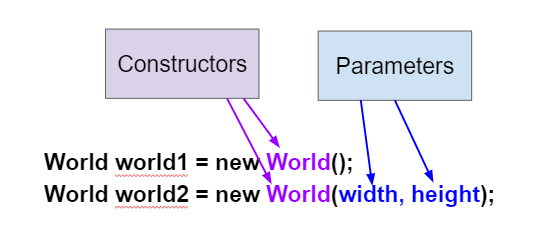
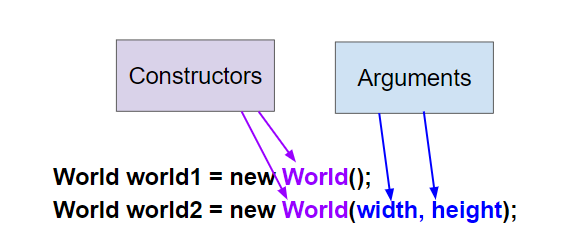
1-13-constructors finished
New EKs just use arguments, not actual parameters and have slight phrasing differences.

Changed region(s): [[0.0623, 0.1207, 0.9341, 0.9655]]

diff --git a/_sources/Unit1-Using-Objects-and-Methods/topic-1-13-constructors.rst b/_sources/Unit1-Using-Objects-and-Methods/topic-1-13-constructors.rst
@@ -1,29 +1,18 @@
 .. include:: ../common.rst
 
-.. qnum::
-   :prefix: 2-2-
-   :start: 1
-
-.. index::
-   pair: class; constructor
-
-.. |repl link| raw:: html
-
-   <a href="https://replit.com/@BerylHoffman/Java-Swing-Turtle#Main.java" target="_blank" style="text-decoration:underline">replit.com link</a>
-
-.. |github| raw:: html
-
-   <a href="https://github.com/bhoffman0/APCSA-2019/tree/master/_sources/Unit2-Using-Objects/TurtleJavaSwingCode.zip" target="_blank" style="text-decoration:underline">here</a>
-
 |Time45|
 
 Creating and Initializing Objects: Constructors
 ================================================
 
-A Java class defines what objects of the class know (attributes) and what they can do (behaviors).  Each class has **constructors** like ``World()`` and ``Turtle(habitat)`` which are used to initialize the attributes in a newly created object.
+.. index::
+   pair: class; constructor
+   single: constructors
+   single: new
+   
+A Java class defines what objects of the class know (attributes) and what they can do (behaviors).  Each class has **constructors** which are used to initialize the attributes in a newly created object. **Constructors** have the same name as the class.
 
-A new object is created with the ``new`` keyword followed by the class name (``new Class()``).  When this code executes, it creates a new object of the specified class and calls a constructor, which has the same name as the class.  For example, ``new World()`` creates and initializes a new object of the ``World`` class, and ``new Turtle(habitat)`` creates and initializes a new ``Turtle`` object in the World habitat.
-
+A new object is created with the ``new`` keyword followed by the class name which is a call to the constructor (``new ClassName()``).  For example, ``new World()`` creates and initializes a new object of the ``World`` class, and ``new Turtle(habitat)`` creates and initializes a new ``Turtle`` object in the World habitat. The new object is saved in a variable of a **reference type** which holds an object reference or null if there is no object.
 
 .. code-block:: java
 
@@ -32,25 +21,43 @@ A new object is created with the ``new`` keyword followed by the class name (``n
     World habitat = new World();    // create a new World object
     Turtle t = new Turtle(habitat); // create a new Turtle object
 
-Overloading Constructors
----------------------------
+The World Class Constructors
+----------------------------------------------------------
 
-There can be more than one constructor defined in a class. This is called **overloading** the constructor. There is usually a constructor that has no parameters (nothing inside the parentheses following the name of the constructor) like the ``World()`` constructor above.  This is also called the **no-argument constructor**.  The **no-argument** constructor usually sets the attributes of the object to default values.
-
-There can also be other constructors that take parameters like the ``Turtle(habitat)`` constructor call above. A **parameter** (also called **actual parameter** or **argument**) is a value that is passed into a constructor.  It can be used to initialize the attribute of an object.
-
-The ``World`` class actually has 2 constructors.  One doesn't take any parameters and one takes the world's width and height.
-
+There can be more than one constructor defined in a class. This is called **overloading** the constructor. The ``World`` class has the 2 constructors seen below. One doesn't take any arguments and creates a default sized world and one takes the world’s width and height arguments to create a world of a specific size. An **argument** (also called actual parameter) is a value that is passed into a constructor. Arguments are used to initialize the attributes of an object, in this case, the size of the world.
 
 .. figure:: Figures/worldConstructors.png
     :width: 350px
     :align: center
-    :alt: Two overloaded World constructors
+    :alt: Two World constructors
     :figclass: align-center
 
-    Figure 1: Two overloaded World constructors
+    Figure 1: Two World constructors
+
+The **no-argument constructor** ``World()``, with no arguments inside the parentheses following the name of the constructor, creates a graphical window with a default size of 640x480 pixels. No-argument constructors usually set the attributes of the object to default values. The second ``World(int width, int height)`` constructor takes two integer arguments, and initializes the ``World`` object's width and height to them, for example ``new World(300,400)`` creates a 300x400 pixel world. 
+
+.. code-block:: java
+
+    World world1 = new World(); // creates a default size 640x480 world
+    World world2 = new World(300,400); // creates a 300x400 world
 
 |Exercise| **Check your understanding**
+
+.. mchoice:: const_def_1
+   :practice: T
+   :answer_a: World w = null;
+   :answer_b: World w = new World;
+   :answer_c: World w = new World();
+   :answer_d: World w = World();
+   :answer_e: World w = new World(300,500);
+   :correct: c
+   :feedback_a: This declares a variable w that refers to a World object, but it doesn't create a World object or initialize it.
+   :feedback_b: You must include parentheses () to call a constructor.
+   :feedback_c: Correct, use the new keyword followed by the classname and parentheses to create a new object and call the constructor.
+   :feedback_d: You must use the new keyword to create a new object.
+   :feedback_e: Correct, this constructor call creates a new World object with the size 300x500 pixels.
+
+   Which of these is valid syntax for creating and initializing a World object?
 
 .. mchoice:: overload_const_1
    :practice: T
@@ -65,50 +72,6 @@ The ``World`` class actually has 2 constructors.  One doesn't take any parameter
    :feedback_d: Overloading means that there is more than one constructor.  The parameter lists must differ in either number, order, or type of parameters.
 
    Which of these is overloading?
-
-.. mchoice:: const_def_1
-   :practice: T
-   :answer_a: World w = null;
-   :answer_b: World w = new World;
-   :answer_c: World w = new World();
-   :answer_d: World w = World();
-   :correct: c
-   :feedback_a: This declares a variable w that refers to a World object, but it doesn't create a World object or initialize it.
-   :feedback_b: You must include parentheses () to call a constructor.
-   :feedback_c: Use the new keyword followed by the classname and parentheses to create a new object and call the constructor.
-   :feedback_d: You must use the new keyword to create a new object.
-
-   Which of these is valid syntax for creating and initializing a World object?
-
-The World Class Constructors
-----------------------------------------------------------
-
-The constructor that doesn't take any parameters, ``World()``, creates a graphical window with 640x480 pixels. The ``World(int width, int height)`` constructor takes two integer parameters, and initializes the ``World`` object's width and height to them, for example ``new World(300,400)`` creates a 300x400 pixel world.
-
-.. code-block:: java
-
-    World world1 = new World(); // creates a 640x480 world
-    World world2 = new World(300,400); // creates a 300x400 world
-
-.. note::
-
-   The turtle world does not use the Cartesian coordinate system with (0,0) in
-   in the middle the screen. Instead, (0,0) is at the top left corner of the
-   screen and x increases to the right and y increases towards the bottom of the
-   screen.
-
-   Most computer graphics systems use this coordinate system which is a carry
-   over from before computers could display graphics. When computer displays
-   were text based and mostly made by people using left-to-right, top-to-bottom
-   languages like English, it made sense to have the first character appear at
-   the top left and then count columns to the right and lines down.
-
-.. figure:: Figures/coords.png
-    :width: 200px
-    :align: center
-    :figclass: align-center
-
-    Figure 2: The coordinate (0,0) is at the top left of the Turtle world.
 
 The Turtle Class Constructors
 ----------------------------------------------------------
@@ -136,7 +99,7 @@ There is another ``Turtle`` constructor that places the turtle at a certain (x,y
    :correct: d
    :feedback_a: You must use the new keyword to create a new Turtle.
    :feedback_b: All turtle constructors take a world as a parameter.
-   :feedback_c: The order of the parameters matter.
+   :feedback_c: The order of the parameters matter, so this would cause a syntax error.
    :feedback_d: This creates a new Turtle object in the passed world at location (100,100)
 
    Which of these is valid syntax for creating and initializing a Turtle object in world1?
@@ -149,8 +112,6 @@ There is another ``Turtle`` constructor that places the turtle at a certain (x,y
     :datafile: turtleClasses.jar
 
     Try changing the code below to create a ``World`` object with 300x400 pixels. Where is the turtle placed by default? What parameters do you need to pass to the ``Turtle`` constructor to put the turtle at the top right corner? Experiment and find out. What happens if you mix up the order of the parameters?
-
-    (If the code below does not work in your browser, you can also use the ``Turtle`` code at this |repl link| (refresh page after forking and if it gets stuck) or download the files |github| to use in your own IDE.)
     ~~~~
     import java.awt.*;
     import java.util.*;
@@ -170,7 +131,6 @@ There is another ``Turtle`` constructor that places the turtle at a certain (x,y
             world1.show(true);
         }
     }
-
     ====
     import static org.junit.Assert.*;
 
@@ -212,7 +172,13 @@ There is another ``Turtle`` constructor that places the turtle at a certain (x,y
 Object Variables and References
 ---------------------------------
 
-You can also declare an **object variable** and initialize it to **null** (``Turtle t1 = null;``). An object variable holds a **reference** to an object.  A **reference** is a way to find the object in memory. It is like a tracking number that you can use to track the location of a package.
+.. index::
+   single: reference
+   single: null
+
+New objects are saved in variables of a **reference type** which holds a reference to an object or **null** (which means none) if there is no object. A **reference** is a way to find the object in memory. It is like a tracking number that you can use to track the location of a package in the mail.
+
+You can also declare an object variable and initialize it to **null** (``Turtle t1 = null;``). This means that the variable doesn't refer to an object yet. 
 
 .. |video1| raw:: html
 
@@ -237,9 +203,15 @@ The code ``Turtle t1 = null;`` creates a variable ``t1`` that refers to a ``Turt
 
 
 
-
 Constructor Signatures
 -----------------------------------
+
+.. index::
+   single: signature
+   single: parameters
+   single: arguments
+   single: call by value
+   single: overloading
 
 .. |turtle documentation| raw:: html
 
@@ -247,7 +219,7 @@ Constructor Signatures
 
 When you use a class that someone has already written for you in a **library** that you can import like the ``Turtle`` class above, you can look up how to use the constructors and methods in the |turtle documentation| for that class.  The documentation will list the **signatures** (or headers) of the constructors or methods which will tell you their name and parameter list. The **parameter list**, in the **header** of a constructor, lists the **formal parameters**, declaring the variables that will be passed in as values and their data types.
 
-Constructors are **overloaded** when there are multiple constructors, but the constructors have different signatures. They can differ in the number, type, and/or order of parameters.  For example, here are two constructors for the ``Turtle`` class that take different parameters:
+Constructors are said to be **overloaded** when there are multiple constructors, but the constructors have different signatures. They can differ in the number, type, and/or order of parameters.  For example, here are the two constructors for the ``Turtle`` class that take different parameters:
 
 
 .. figure:: Figures/TurtleClassDefn.png
@@ -277,21 +249,8 @@ Constructors are **overloaded** when there are multiple constructors, but the co
 
    Given the Turtle class in the figure above and a World object world1, which of the following code segments will correctly create an instance of a Turtle object at (x,y) coordinates (50,150)?
 
-.. mchoice:: no_arg_constructor
-   :practice: T
-   :answer_a: public World(int width, int height)
-   :answer_b: public World()
-   :answer_c: public World
-   :answer_d: public World(int width)
-   :correct: b
-   :feedback_a: This constructor signature defines two arguments: width and height.
-   :feedback_b: This constructor signature is correct for a no-argument constructor.
-   :feedback_c: The constructor signature must include parentheses.
-   :feedback_d: This constructor signature defines one argument: width.
 
-   Which of these is the correct signature for a no-argument constructor?
-
-In Unit 5, you will learn to write your own classes. However, if you see a class definition on the AP exam, like the one below for a class called ``Date``, you should be able to pick out the attributes (instance variables) and the constructors and know how to use them.
+In Unit 3, you will learn to write your own classes. However, if you see a class definition on the AP exam, like the one below for a class called ``Date``, you should be able to pick out the attributes (instance variables) and the constructors and know how to use them.
 
 .. figure:: Figures/DateClass.png
     :width: 500px
@@ -343,10 +302,10 @@ In Unit 5, you will learn to write your own classes. However, if you see a class
    Given the ``Date`` class in the figure above and assuming that months in the ``Date`` class are numbered starting at 1, which of the following code segments will create a ``Date`` object for the date September 20, 2020 using the correct constructor?
 
 
-Formal and Actual Parameters
---------------------------------
+Arguments, Parameters, and Call by Value
+-----------------------------------------
 
-When a constructor like ``Date(2005,9,1)`` is called, the **formal parameters**, (year, month, day), are set to copies of the  **actual parameters** (or **arguments**), which are (2005,9,1).  This is **call by value** which means that copies of the actual parameter values are passed to the constructor.  These values are used to initialize the object's attributes.
+When a constructor like ``Date(2005,9,1)`` is called, the **formal parameters**, (year, month, day), are set to copies of the  **arguments** (or **actual parameters**), which are (2005,9,1).  This is **call by value** which means that copies of the argument values are passed to the constructor.  These values are used to initialize the object's attributes.
 
 .. figure:: Figures/parameterMappingDate.png
     :width: 450px
@@ -360,50 +319,35 @@ The type of the values being passed in as arguments have to match the type of th
 
 |Exercise| **Check your understanding**
 
-.. mchoice:: 2_2_formal_parms
+.. mchoice:: mcq_formal_params
    :practice: T
    :answer_a: objects
    :answer_b: classes
    :answer_c: formal parameters
-   :answer_d: actual parameters
+   :answer_d: arguments
    :correct: c
    :feedback_a: Objects have attributes and behavior.
    :feedback_b: A class defines the data and behavior for all objects of that type.
-   :feedback_c: A formal parameter is in the constructor's signature.
-   :feedback_d: A actual parameter (argument) is the value that is passed into the constructor.
+   :feedback_c: The formal parameters are in the constructor's signature.
+   :feedback_d: An argument is the value that is passed into the constructor.
 
    In ``public World(int width, int height)`` what are ``width`` and ``height``?
 
-.. mchoice:: 2_2_actual_parms
+.. mchoice:: mcq_actual_params
    :practice: T
    :answer_a: objects
    :answer_b: classes
    :answer_c: formal parameters
-   :answer_d: actual parameters
+   :answer_d: arguments
    :correct: d
    :feedback_a: Objects have attributes and behavior.
    :feedback_b: A class defines the data and behavior for all objects of that type.
    :feedback_c: A formal parameter is in the constructor's signature.
-   :feedback_d: A actual parameter (argument) is the value that is passed into the constructor.
+   :feedback_d: An argument is the value that is passed into the constructor.
 
    In ``new World(150, 200)`` what are ``150`` and ``200``?
 
-This lesson introduces a lot of vocabulary, but don't worry if you don't understand everything about classes and constructors yet. You will learn more about how this all works in Unit 5 when you write your own classes and constructors. And you will see parameters again with methods in the next lessons.
-
-.. image:: Figures/customTurtles.png
-    :width: 200
-    :align: left
-
-|Groupwork| Programming Challenge: Custom Turtles
----------------------------------------------------
-
-
-
-Working in pairs, you will now look at a new class called CustomTurtle and design some colorful turtles with its constructors.
-
-First, as a warm up, do the following debugging exercise.
-
-.. activecode:: challenge2-2-TurtleConstructorDebug
+.. activecode:: TurtleConstructorDebug
     :language: java
     :autograde: unittest
     :datafile: turtleClasses.jar
@@ -466,7 +410,16 @@ First, as a warm up, do the following debugging exercise.
         }
     }
 
-The CustomTurtle class in the ActiveCode below inherits many of its attributes and methods from the Turtle class (you will learn more about inheritance in Unit 9). However, it has some new constructors with more parameters to customize a turtle with its body color, shell color, width, and height. CustomTurtle has 3 constructors:
+This lesson introduces a lot of vocabulary, but don't worry if you don't understand everything about classes and constructors yet. You will learn more about how this all works in later units when you write your own classes and constructors. And you will see parameters again with methods in the next lessons.
+
+.. image:: Figures/customTurtles.png
+    :width: 200
+    :align: left
+
+|Groupwork| Programming Challenge: Custom Turtles
+---------------------------------------------------
+
+Working in pairs, you will now look at a new class called CustomTurtle and design some colorful turtles with its constructors. The CustomTurtle class in the ActiveCode below inherits many of its attributes and methods from the Turtle class. However, it has some new constructors with more parameters to customize a turtle with its body color, shell color, width, and height. CustomTurtle has 3 constructors:
 
 .. code-block:: java
 
@@ -494,7 +447,7 @@ You will use the constructor(s) to create the CustomTurtles below. You can speci
 
 3. Create a CustomTurtle of your own design.
 
-.. activecode:: challenge2-2-CustomTurtles
+.. activecode:: challenge-CustomTurtles
     :language: java
     :autograde: unittest
     :datafile: turtleClasses.jar
@@ -649,31 +602,34 @@ You will use the constructor(s) to create the CustomTurtles below. You can speci
 Summary
 -------------------
 
+- A class contains **constructors** that are called with the keyword ``new`` to create objects and initialize its attributes. 
 
-- **Constructors** initialize the attributes in newly created objects.  They have the same name as the class.
+- **Constructors** have the same name as the class.
 
-- A **constructor signature** is the constructor name followed by the parameter list which is a list of the types of the parameters and the variable names used to refer to them in the constructor.
+- An object is typically created using the keyword new followed by a call to one of the class’s constructors. ``new ClassName()`` creates a new object of the specified class and calls a constructor.
 
-- **Overloading** is when there is more than one constructor.  They must differ in the number, type, or order of parameters.
+- The new object is saved in a variable of a **reference type** which holds an object reference or null if there is no object.
 
-- **New** is a keyword that is used to create a new object of a class.  The syntax is ``new ClassName()``.  It creates a new object of the specified class and calls a constructor.
+- A **constructor signature** consists of the constructor’s name, which is the same as the class name, and the ordered list of parameter types. 
+
+- The **parameter list**, in the header of a constructor, lists the types of the values that are passed and their variable names.
+
+- Constructors are said to be **overloaded** when there are multiple constructors with different signatures. They must differ in the number, type, or order of parameters.
 
 - A **no-argument constructor** is a constructor that doesn't take any passed in values (arguments).
 
-- **Parameters** allow values to be passed to the constructor to initialize the newly created object's attributes.
+- **Parameters** allow constructors to accept values to establish the initial values of the attributes of the object.
 
-- The **parameter list**, in the header of a constructor, is a list of the type of the value being passed and a variable name. These variables are called the **formal parameters**.
+- A constructor **argument** is a value that is passed into a constructor when the constructor is called. The arguments passed to a constructor must be compatible in order and number with the types identified in the parameter list in the constructor signature. 
 
-- **Actual parameters** are the values being passed to a constructor.  The formal parameters are set to a copy of the value of the actual parameters.
+- When calling constructors, arguments are passed using call by value. **Call by value** initializes the parameters with copies of the arguments.
 
-- **Formal parameters** are the specification of the parameters in the constructor header.  In Java this is a list of the type and name for each parameter (``World(int width, int height``).
-
-- **Call by value** means that when you pass a value to a constructor or method it passes a copy of the value.
+- A constructor call interrupts the sequential execution of statements, causing the program to first execute the statements in the constructor before continuing. Once the last statement in the constructor has been executed, the flow of control is returned to the point immediately following where the constructor was called.
 
 AP Practice
 ------------
 
-.. mchoice:: AP2-2-1
+.. mchoice:: AP-constructors
    :practice: T
    :answer_a: I only
    :answer_b: I and II
@@ -718,7 +674,7 @@ AP Practice
              boolean hungry = false;
              Cat c = new Cat(color, "Tabby", hungry);
 
-.. mchoice:: AP2-2-2
+.. mchoice:: AP-constructors2
    :practice: T
    :answer_a: Movie m = new Movie(8.0, "Lion King");
    :answer_b: Movie m = Movie("Lion King", 8.0);
